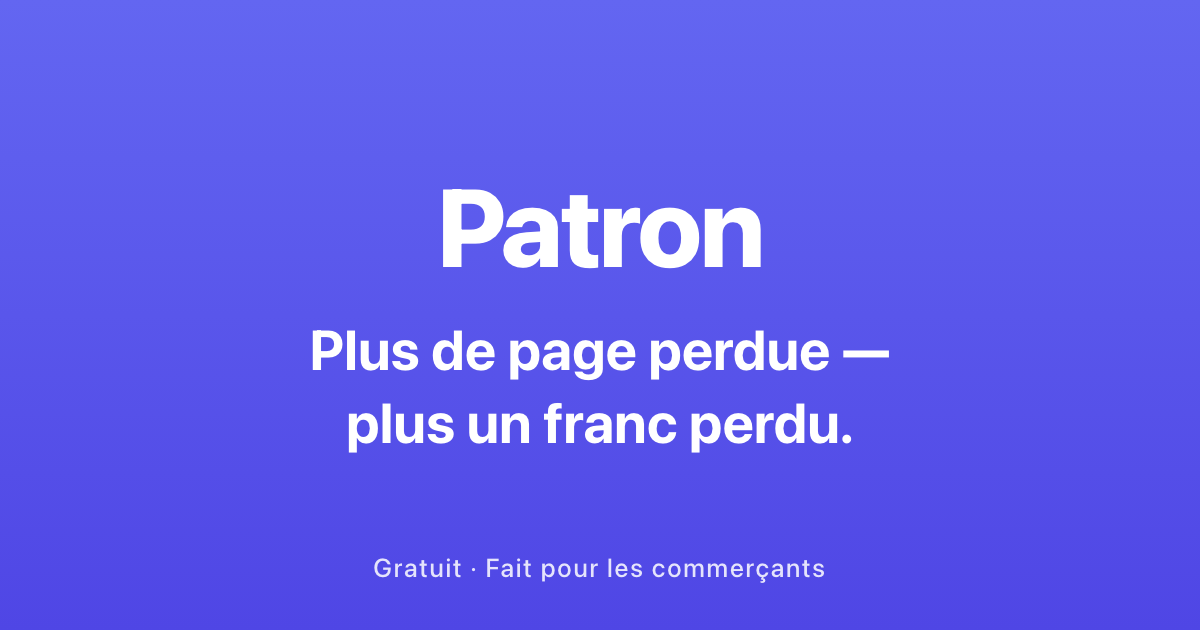
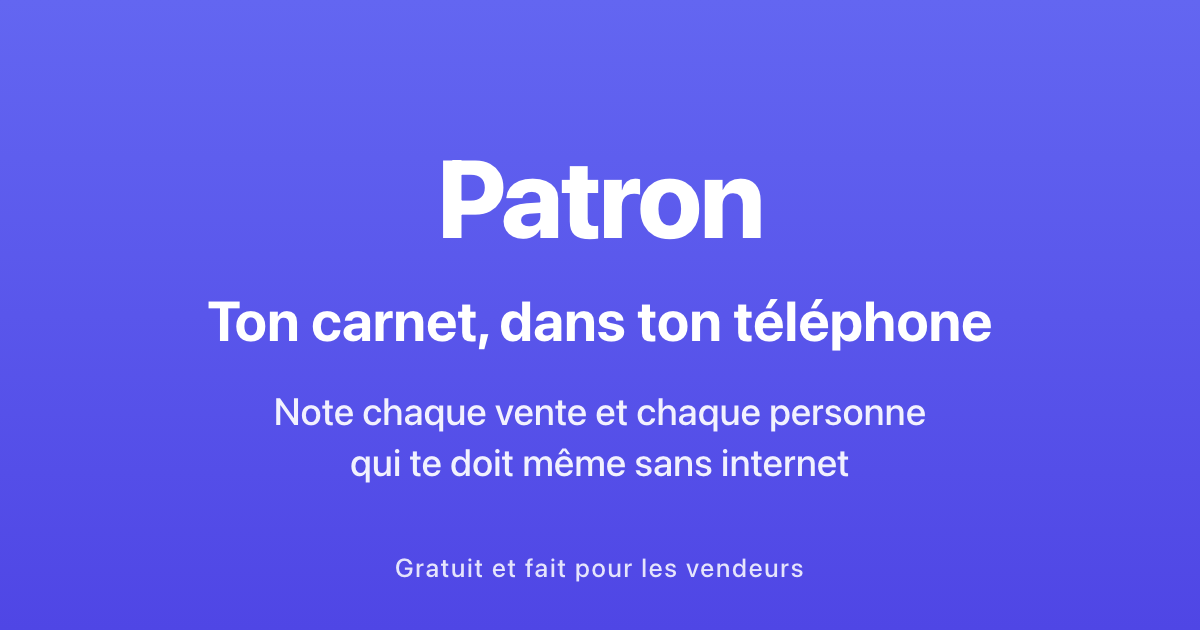
invite V7: lien court ?s=<slug> + nouvelle carte — réconcilié sur main (63bab28) : toutes les évolutions du soir conservées

diff --git a/invite/index.html b/invite/index.html
@@ -102,6 +102,14 @@
             min-height: 1.25em;
         }
 
+        /* La ligne en gras au-dessus de la promesse (V7). */
+        p.lede {
+            font-size: 18px;
+            line-height: 1.4;
+            margin: 0 0 8px;
+            font-weight: 700;
+        }
+
         p.tagline {
             font-size: 16px;
             line-height: 1.5;
@@ -241,6 +249,7 @@
 <body>
     <div class="card">
         <h1 id="title">On t'invite sur Patron</h1>
+        <p class="lede">Ton carnet, dans ton téléphone</p>
         <p class="tagline">Note chaque vente et chaque personne qui te doit même sans internet</p>
 
         <div id="stores">
@@ -284,6 +293,8 @@
             var ANON_KEY = 'sb_publishable_z2cta2M53RtwpGoWUV6LMQ_LoUkSjaD';
             var PLAY_STORE_BASE = 'https://play.google.com/store/apps/details?id=com.awall.patron';
             var UUID_RE = /^[0-9a-f]{8}-[0-9a-f]{4}-[0-9a-f]{4}-[0-9a-f]{4}-[0-9a-f]{12}$/i;
+            // The short link's slug: 8 characters of the unambiguous alphabet (no I, L, O, 0, 1).
+            var SLUG_RE = /^[A-HJKMNP-Z2-9]{8}$/;
 
             // The inviter id comes from /invite/<id> (404.html forwards that
             // path here as ?i=<id>). Anything that is not a uuid is ignored.
@@ -298,16 +309,28 @@
                 }
             }
 
+            // The short link /invite/?s=<slug>. A malformed slug is ignored (generic page, never an error).
+            function inviterSlug() {
+                try {
+                    var s = (new URLSearchParams(window.location.search).get('s') || '').trim().toUpperCase();
+                    return SLUG_RE.test(s) ? s : '';
+                } catch (e) {
+                    return '';
+                }
+            }
+
             var id = inviterId();
+            var slug = id ? '' : inviterSlug();   // the uuid form keeps priority
 
             var titleEl = document.getElementById('title');
             var storePlay = document.getElementById('store-play');
 
             // Attribution: the Play install referrer carries the inviter id.
             // (iOS cold installs are unattributed by design.)
-            if (id) {
-                storePlay.href = PLAY_STORE_BASE + '&referrer=' + encodeURIComponent('patron_invite=' + id);
+            function setReferrer(inviter) {
+                storePlay.href = PLAY_STORE_BASE + '&referrer=' + encodeURIComponent('patron_invite=' + inviter);
             }
+            if (id) setReferrer(id);
 
             function fitTitle() {
                 // Une seule ligne quoi qu'il arrive : on repart de la
@@ -340,11 +363,35 @@
             }
 
             // Inviter name (anon RPC). Any failure → the generic headline.
-            if (!id) {
+            // Nothing to resolve (no uuid, no slug) → generic title, revealed at once.
+            if (!id && !slug) {
                 setTitle('');
                 reveal();
             }
             setTimeout(reveal, 400);
+            if (!id && slug) {
+                // Short link: the server resolves the slug. Valid → personalised title AND the Play referrer carries the
+                // RESOLVED inviter id (the app attributes by profile id); invalid or any failure → the generic page.
+                // Same single arrival: the card is revealed when the resolution is done (or at the 400 ms ceiling).
+                fetch(SUPABASE_URL + '/rest/v1/rpc/preview_inviter_by_slug', {
+                    method: 'POST',
+                    headers: {
+                        'Content-Type': 'application/json',
+                        'apikey': ANON_KEY,
+                        'Authorization': 'Bearer ' + ANON_KEY
+                    },
+                    body: JSON.stringify({ p_slug: slug })
+                })
+                    .then(function (res) { return res.ok ? res.json() : null; })
+                    .then(function (data) {
+                        var resolved = data && data.valid && UUID_RE.test(String(data.inviter_id || '')) ? String(data.inviter_id).toLowerCase() : '';
+                        if (!resolved) { setTitle(''); reveal(); return; }
+                        setReferrer(resolved);
+                        setTitle(data.inviter_name ? String(data.inviter_name).trim() : '');
+                        reveal();
+                    })
+                    .catch(function () { setTitle(''); reveal(); });
+            }
             if (id) {
                 fetch(SUPABASE_URL + '/rest/v1/rpc/preview_inviter', {
                     method: 'POST',

diff --git a/scripts/invite-og-card.html b/scripts/invite-og-card.html
@@ -50,6 +50,16 @@
             line-height: 1.3;
         }
 
+        .sub {
+            margin-top: 28px;
+            max-width: 900px;
+            text-wrap: balance;
+            font-size: 38px;
+            font-weight: 500;
+            line-height: 1.35;
+            color: rgba(255, 255, 255, 0.92);
+        }
+
         .foot {
             position: absolute;
             left: 0;
@@ -67,9 +77,10 @@
 <body>
     <div class="card">
         <div class="brand">Patron</div>
-        <div class="tagline">Plus de page perdue —<br />plus un franc perdu.</div>
+        <div class="tagline">Ton carnet, dans ton téléphone</div>
+        <div class="sub">Note chaque vente et chaque personne qui te doit même sans internet</div>
     </div>
-    <div class="foot">Gratuit · Fait pour les commerçants</div>
+    <div class="foot">Gratuit et fait pour les vendeurs</div>
 </body>
 
 </html>
